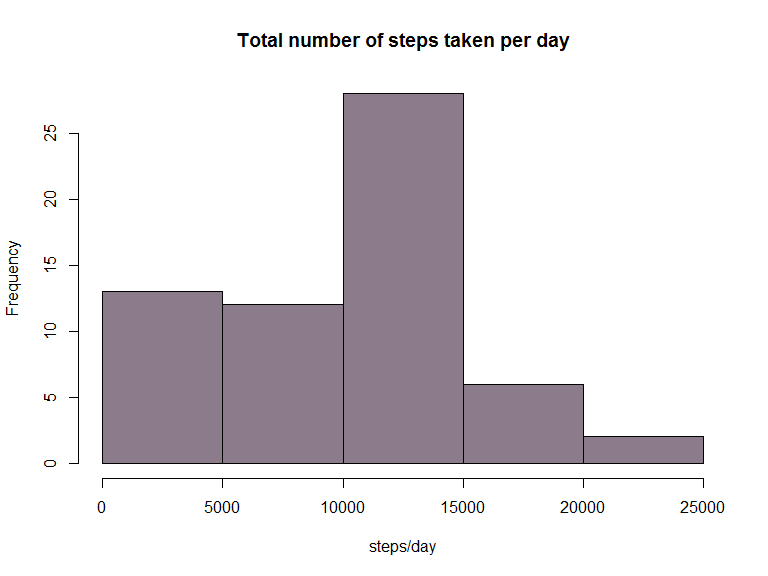
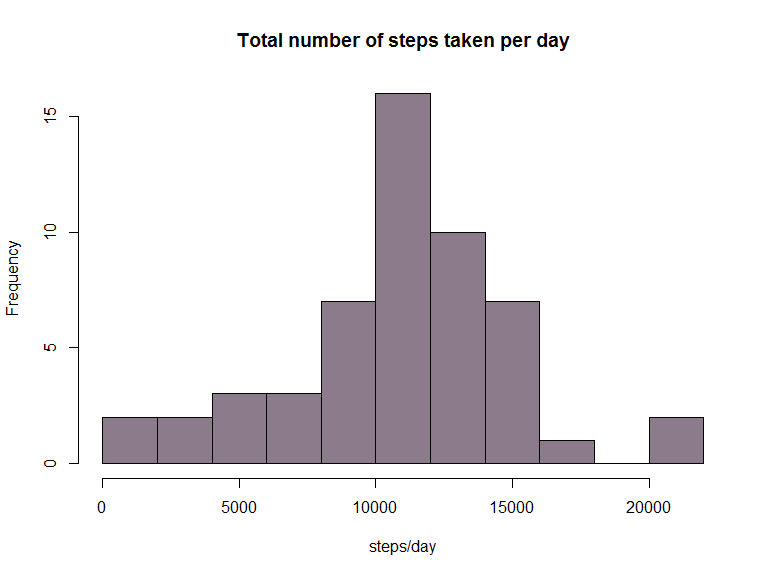
Final commit for Assignment1

diff --git a/PA1_template.html b/PA1_template.html
@@ -125,15 +125,15 @@ str(dat)</code></pre>
 <pre class="r"><code>stepsPerDay &lt;- 
         dat %&gt;%
         group_by(date) %&gt;%
-        summarize(totalSteps = sum(steps, na.rm = T))</code></pre>
+        summarize(totalSteps = sum(steps))</code></pre>
 <pre class="r"><code>with(stepsPerDay, hist(totalSteps, breaks = &quot;FD&quot;, main =&quot;Total number of steps taken per day&quot;, xlab = &quot;steps/day&quot;, col = &quot;thistle4&quot;))</code></pre>
[2 lines of base64/hex data omitted]
 <pre class="r"><code>totalStepsPerDaysummary &lt;- 
         stepsPerDay %&gt;%
-        summarize(mean = mean(totalSteps),
-                  median = median(totalSteps))</code></pre>
-<p>The <strong>mean</strong> total number of steps per day is 9354.23</p>
-<p>The <strong>median</strong> total number of steps per day is 1.039510^{4}</p>
+        summarize(mean = mean(totalSteps, na.rm=T),
+                  median = median(totalSteps, na.rm=T))</code></pre>
+<p>The <strong>mean</strong> total number of steps per day is 1.07661910^{4}</p>
+<p>The <strong>median</strong> total number of steps per day is 1.076510^{4}</p>
 </div>
 <div id="what-is-the-average-daily-activity-pattern" class="section level2">
 <h2>What is the average daily activity pattern?</h2>
@@ -192,9 +192,9 @@ head(tblDat)</code></pre>
 <pre class="r"><code>par(mfrow=c(1,2))
 with(stepsPerDayNew, hist(totalSteps, main =&quot;Total number of steps per day\n (missing values imputed from mean per interval)&quot;, xlab = &quot;steps/day&quot;, col = &quot;thistle4&quot;))
 with(stepsPerDay, hist(totalSteps, main =&quot;Total number of steps per day&quot;, xlab = &quot;steps/day&quot;, col = &quot;thistle4&quot;))</code></pre>
[2 lines of base64/hex data omitted]
 <pre class="r"><code>stepsPerDayNewSummary &lt;- summarize(stepsPerDayNew, mean = mean(totalSteps), median = median(totalSteps))</code></pre>
-<p>The mean and median total number of steps for this new data is 1.07661910^{4} and 1.07661910^{4}, respectively. Imputing missing values increased the estimates of mean and median. Also, the distribution of steps per day is closer to normal distribution.</p>
+<p>The mean and median total number of steps for this new data is 1.07661910^{4} and 1.07661910^{4}. Imputing missing values does not change mean and median by much. When we impute missing data the mean gets closer to median.</p>
 </div>
 <div id="are-there-differences-in-activity-patterns-between-weekdays-and-weekends" class="section level2">
 <h2>Are there differences in activity patterns between weekdays and weekends?</h2>

diff --git a/PA1_template.md b/PA1_template.md
@@ -102,7 +102,7 @@ library(dplyr)
 stepsPerDay <- 
         dat %>%
         group_by(date) %>%
-        summarize(totalSteps = sum(steps, na.rm = T))
+        summarize(totalSteps = sum(steps))
 ```
 
 
@@ -116,13 +116,13 @@ with(stepsPerDay, hist(totalSteps, breaks = "FD", main ="Total number of steps t
 ```r
 totalStepsPerDaysummary <- 
         stepsPerDay %>%
-        summarize(mean = mean(totalSteps),
-                  median = median(totalSteps))
+        summarize(mean = mean(totalSteps, na.rm=T),
+                  median = median(totalSteps, na.rm=T))
 ```
 
-The **mean** total number of steps per day is 9354.23
+The **mean** total number of steps per day is 1.076619\times 10^{4}
 
-The **median** total number of steps per day is 1.0395\times 10^{4}
+The **median** total number of steps per day is 1.0765\times 10^{4}
 
 ## What is the average daily activity pattern?
 
@@ -222,7 +222,8 @@ with(stepsPerDay, hist(totalSteps, main ="Total number of steps per day", xlab =
 stepsPerDayNewSummary <- summarize(stepsPerDayNew, mean = mean(totalSteps), median = median(totalSteps))
 ```
 
-The mean and median total number of steps for this new data is 1.076619\times 10^{4} and 1.076619\times 10^{4}, respectively. Imputing missing values increased the estimates of mean and median. Also, the distribution of steps per day is closer to normal distribution. 
+The mean and median total number of steps for this new data is 1.076619\times 10^{4} and 1.076619\times 10^{4}. Imputing missing values does not change mean and median by much. When we impute missing data the mean gets closer to median.
+
 
 ## Are there differences in activity patterns between weekdays and weekends?
 
